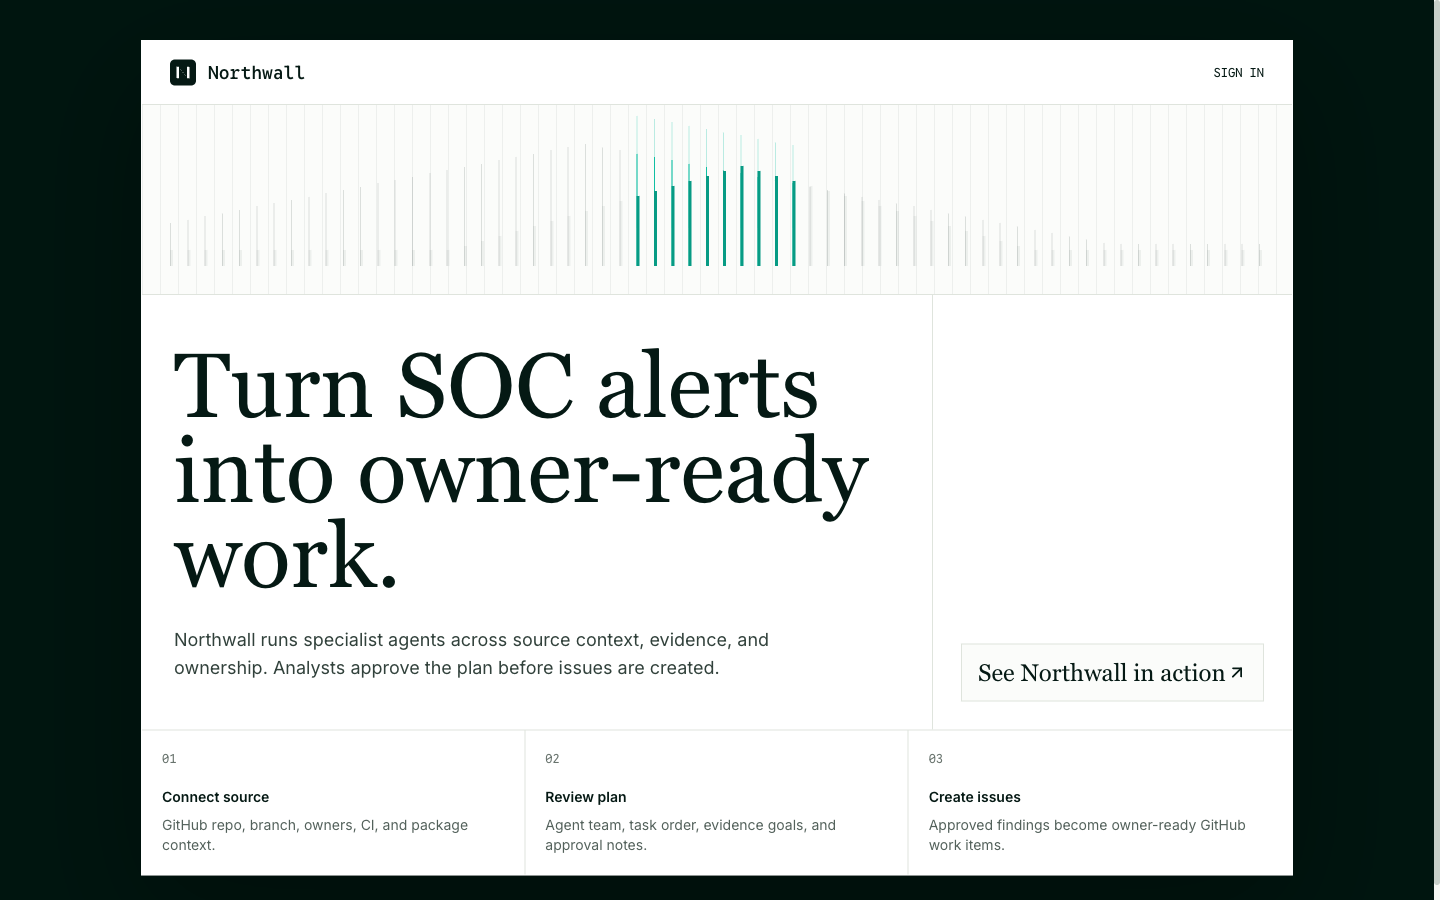
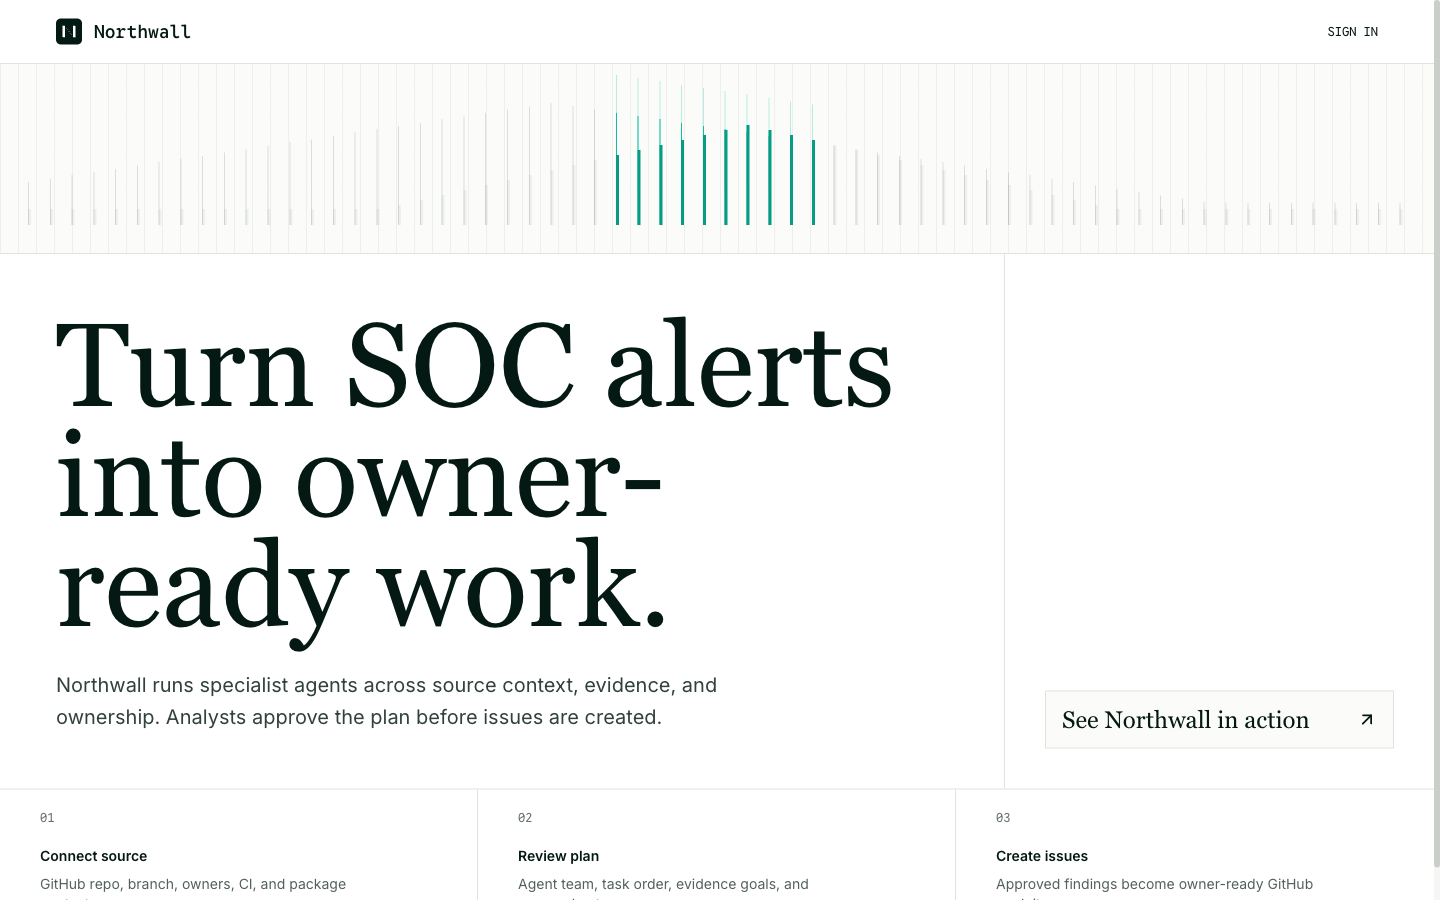
Make landing page full bleed

diff --git a/packages/frontend/src/app/page.tsx b/packages/frontend/src/app/page.tsx
@@ -46,10 +46,10 @@ function SignalField() {
 
 export default function LandingPage() {
   return (
-    <main className="min-h-screen bg-[#00150f] px-4 py-6 text-[#051914] sm:px-8 sm:py-10">
-      <section className="mx-auto flex min-h-[calc(100vh-80px)] max-w-6xl items-center">
-        <div className="w-full overflow-hidden border border-white/20 bg-white shadow-[0_40px_120px_rgba(0,0,0,0.32)]">
-          <header className="flex h-16 items-center justify-between border-b border-[#dfe4dd] px-5 sm:px-7">
+    <main className="min-h-screen bg-white text-[#051914]">
+      <section className="min-h-screen">
+        <div className="grid min-h-screen grid-rows-[auto_auto_1fr_auto] bg-white">
+          <header className="flex h-16 items-center justify-between border-b border-[#dfe4dd] px-5 sm:px-10 lg:px-14">
             <Link href="/" className="flex items-center gap-3">
               <NorthwallMark size={26} className="text-[#051914]" />
               <NorthwallLogo className="text-lg" />
@@ -64,17 +64,17 @@ export default function LandingPage() {
 
           <SignalField />
 
-          <div className="grid md:grid-cols-[1fr_360px]">
-            <section className="px-5 py-9 sm:px-8 sm:py-12">
-              <h1 className="max-w-3xl font-serif text-[3.15rem] font-normal leading-[0.93] text-[#051914] sm:text-[5rem] md:text-[5.7rem]">
+          <div className="grid min-h-0 md:grid-cols-[1fr_380px] xl:grid-cols-[1fr_430px]">
+            <section className="px-5 py-10 sm:px-10 sm:py-14 lg:px-14">
+              <h1 className="max-w-4xl font-serif text-[3.2rem] font-normal leading-[0.93] text-[#051914] sm:text-[5.5rem] lg:text-[6.7rem] xl:text-[7.4rem]">
                 Turn SOC alerts into owner-ready work.
               </h1>
-              <p className="mt-7 max-w-2xl text-base leading-7 text-[#31413b] sm:text-lg">
+              <p className="mt-7 max-w-2xl text-base leading-7 text-[#31413b] sm:text-lg lg:text-xl lg:leading-8">
                 Northwall runs specialist agents across source context, evidence, and ownership. Analysts approve the plan before issues are created.
               </p>
             </section>
 
-            <aside className="flex border-t border-[#dfe4dd] p-5 md:border-l md:border-t-0 sm:p-7">
+            <aside className="flex border-t border-[#dfe4dd] p-5 md:border-l md:border-t-0 sm:p-8 lg:p-10">
               <Link
                 href="/workspace"
                 className="group mt-auto flex w-full items-center justify-between border border-[#dfe4dd] bg-[#fbfcfa] px-4 py-4 text-left transition-colors hover:border-[#051914]"
@@ -91,7 +91,7 @@ export default function LandingPage() {
             {steps.map(([number, title, body]) => (
               <article
                 key={title}
-                className="min-h-36 border-b border-[#dfe4dd] p-5 last:border-b-0 sm:border-b-0 sm:border-r sm:last:border-r-0"
+                className="min-h-36 border-b border-[#dfe4dd] p-5 last:border-b-0 sm:border-b-0 sm:border-r sm:last:border-r-0 lg:px-10"
               >
                 <div className="font-display text-xs text-[#68736d]">{number}</div>
                 <h2 className="mt-5 text-sm font-semibold text-[#051914]">{title}</h2>
